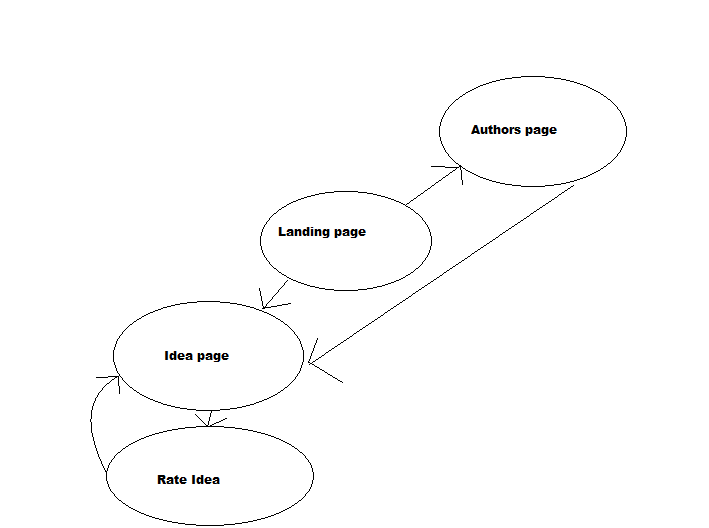
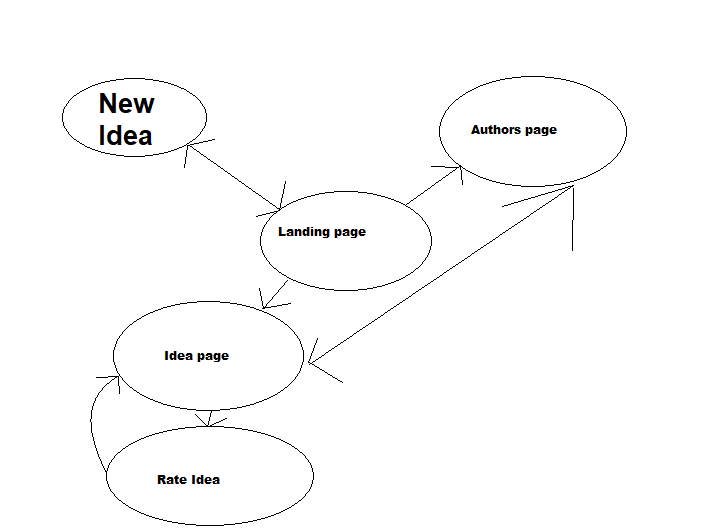
user authentication added and templates updated

Changed region(s): [[0.1241, 0.2424, 0.2172, 0.303], [0.1241, 0.1515, 0.2172, 0.2121], [0.2482, 0.2727, 0.2793, 0.303]]

diff --git a/RateMyIdea/templates/register/signup.html b/RateMyIdea/templates/register/signup.html
@@ -1,0 +1,57 @@
+{% extends 'base.html' %}
+
+{% load widget_tweaks %}
+
+{% block content %}
+
+<div class="container">
+    <div class="row d-flex justify-content-center align-items-center" style="height: 100vh">
+        <div class="col-lg-6 col-md-8 col-sm-10 bg-info ">
+            <form method="post" class="form">
+                {% csrf_token %}
+                <h3 class="text-center my-5">Signup</h3>
+                <div class="form-group">
+                    <div class="input-group mb-3">
+                        <div class="input-group-prepend">
+                            <span class="input-group-text"><i class="bi bi-person"></i></span>
+                        </div>
+                        {% render_field form.username placeholder="Username" class+="form-control" %}
+                    </div>
+                </div>
+                <div class="form-group">
+                    <div class="input-group mb-3">
+                        <div class="input-group-prepend">
+                            <span class="input-group-text"><i class="bi bi-envelope"></i></span>
+                        </div>
+                        {% render_field form.email placeholder="Email" class+="form-control" %}
+                    </div>
+                </div>
+                <div class="form-group">
+                    <div class="input-group mb-3">
+                        <div class="input-group-prepend">
+                            <span class="input-group-text"><i class="bi bi-lock"></i></span>
+                        </div>
+                        {% render_field form.password1 placeholder="Password" class+="form-control" %}
+                    </div>
+                </div>
+                <div class="form-group">
+                    <div class="input-group mb-3">
+                        <div class="input-group-prepend">
+                            <span class="input-group-text"><i class="bi bi-lock"></i></span>
+                        </div>
+                        {% render_field form.password2 placeholder="Password Confirmation" class+="form-control" %}
+                    </div>
+                </div>
+                <div class="form-group text-center">
+                    <button type="submit" class="btn btn-primary">Register</button>
+                </div>
+                <div class="form-group">
+                    <p>Already have an account? <a href="{% url 'users:login' %}">login</a></p>
+                </div>
+            </form>
+        </div>
+    </div>
+</div>
+
+
+{% endblock %}

diff --git a/RateMyIdea/templates/register/login.html b/RateMyIdea/templates/register/login.html
@@ -1,0 +1,46 @@
+{% extends 'base.html' %}
+
+{% load widget_tweaks %}
+
+{% block content %}
+
+<div class="container">
+    <div class="row d-flex justify-content-center align-items-center" style="height: 100vh">
+        <div class="col-lg-6 col-md-8 col-sm-10 bg-info ">
+            <form method="post" class="form">
+                {% csrf_token %}
+                <h3 class="text-center my-5">Login</h3>
+                <div class="form-group">
+                    <div class="input-group mb-3">
+                        <div class="input-group-prepend">
+                            <span class="input-group-text"><i class="bi bi-envelope"></i></span>
+                        </div>
+                        {% render_field form.username placeholder="Enter email" class+="form-control" %}
+                    </div>
+                </div>
+                <div class="form-group">
+                    <div class="input-group mb-3">
+                        <div class="input-group-prepend">
+                            <span class="input-group-text"><i class="bi bi-lock"></i></span>
+                        </div>
+                        {% render_field form.password placeholder="Enter password" class+="form-control" %}
+                    </div>
+                </div>
+                <div class="form-group">
+                    <button type="submit" class="btn btn-primary">Login</button>
+                </div>
+                <div class="form-group">
+                    <p class="text-center">Don't have an account? <a href="{% url 'users:signup' %}">Signup here</a>
+                       </p> 
+                    </div>
+                <div class="form-group">
+                    <p class="text-center"><a href="{% url 'users:password_reset' %}">Forgot password?</a>
+                    </p>
+                    </div>
+            </form>
+        </div>
+    </div>
+</div>
+
+
+{% endblock %}

diff --git a/RateMyIdea/templates/base.html b/RateMyIdea/templates/base.html
@@ -4,14 +4,30 @@
 <meta charset="utf-8">
     <meta name="viewport" content="width=device-width, initial-scale=1, shrink-to-fit=no">
     <link rel="stylesheet" href="https://stackpath.bootstrapcdn.com/bootstrap/4.4.1/css/bootstrap.min.css" crossorigin="anonymous">
+    <link href="https://cdn.jsdelivr.net/npm/bootstrap-icons@1.5.0/font/bootstrap-icons.css" rel="stylesheet">
     <link rel="stylesheet" href="styles.css">
     <title>{% block title %}Rate My Idea{% endblock %}</title>
 </head>
 <body>
 
-<div class="p-3 bg-dark text-white">
-    <h3>Rate My Idea</h3>
+<nav class="navbar navbar-expand-lg navbar-light bg-dark">
+    <div class="container-fluid">
+    <h3 class="navbar-brand">Rate My Idea</h3>
+    <ul class="navbar-nav">
+        <li class="nav-item"><a href="{% url 'ideas:home' %}" class="nav-link">Home</a></li>
+        <li class="nav-item"><a href="{% url 'ideas:new_idea' %}" class="nav-link">New Idea</a></li>
+        <li class="nav-item"><a href="#" class="nav-link">About</a></li>
+        <li class="nav-item"><a href="#" class="nav-link">Contact</a></li>
+        {% if request.user.is_authenticated %}
+            <li class="nav-item"><a href="#" class="nav-link">Author</a></li>
+            <li class="nav-item"><a href="{% url 'users:logout' %}" class='btn btn-secondary nav-link'>Logout</a></li>
+        {% else %}
+            <li class="nav-item"><a href="{% url 'users:login' %}" class='btn btn-primary nav-link'>Login</a></li>
+            <li class="nav-item"><a href="{% url 'users:signup' %}" class='btn btn-secondary nav-link'>Signup</a></li>
+        {% endif %}
+    </ul>
 </div>
+</nav>
 
 
 {% block content %}

diff --git a/RateMyIdea/templates/home.html b/RateMyIdea/templates/home.html
@@ -5,7 +5,7 @@
 
 {% block content %}
 <br>
-<a href="{% url 'new_idea' %}" class="btn btn-dark">New Idea</a>
+<a href="{% url 'ideas:new_idea' %}" class="btn btn-dark">New Idea</a>
 <br>
 
 
@@ -28,7 +28,7 @@
                     <td>{{ idea.idea }}</td>
                     <td>{{ idea.rating }}</td>
                     <td>{{ idea.votes }}</td>
-                    <td><a href="{% url 'author' idea.id %}">{{ idea.author }}</a></td>
+                    <td><a href="{% url 'ideas:author' idea.id %}">{{ idea.author }}</a></td>
                     <td>{{ idea.date_posted }}</td>
                 </tr>
                 {% endfor %}

diff --git a/RateMyIdea/templates/new_idea.html b/RateMyIdea/templates/new_idea.html
@@ -7,7 +7,8 @@
 <form method="post">
 	{% csrf_token %}
 	{{ form.as_p }}
-	<button type="submit">Submit</button>
+	<button type="submit" class="btn btn-primary">Submit</button>
+	<a href="{% url 'ideas:home' %}" class="btn btn-secondary">Cancel</a>
 </form>
 
 {% endblock %}

diff --git a/RateMyIdea/templates/register/password_reset_done.html b/RateMyIdea/templates/register/password_reset_done.html
@@ -1,0 +1,11 @@
+{% extends 'base.html' %}
+
+
+{% block title %}Reset Password{% endblock %}
+
+{% block content %}
+
+<h3>Reset Password</h3>
+<p>We have sent you an email with a link to reset your password. Please follow the instructions.</p>
+
+{% endblock %}

diff --git a/RateMyIdea/templates/register/password_reset_form.html b/RateMyIdea/templates/register/password_reset_form.html
@@ -1,0 +1,9 @@
+{% extends 'base.html' %}
+
+
+{% block title %}Password Reset{% endblock %}
+
+{% block content %}
+
+
+{% endblock %}

diff --git a/RateMyIdea/templates/register/password_reset_complete.html b/RateMyIdea/templates/register/password_reset_complete.html
@@ -1,0 +1,9 @@
+{% extends 'base.html' %}
+
+
+{% block title %}Login{% endblock %}
+
+{% block content %}
+
+
+{% endblock %}

diff --git a/RateMyIdea/templates/register/password_reset_confirm.html b/RateMyIdea/templates/register/password_reset_confirm.html
@@ -1,0 +1,9 @@
+{% extends 'base.html' %}
+
+
+{% block title %}Login{% endblock %}
+
+{% block content %}
+
+
+{% endblock %}

diff --git a/RateMyIdea/RateMyIdea/settings.py b/RateMyIdea/RateMyIdea/settings.py
@@ -22,8 +22,8 @@ BASE_DIR = Path(__file__).resolve().parent.parent
 # See https://docs.djangoproject.com/en/4.1/howto/deployment/checklist/
 
 # SECURITY WARNING: keep the secret key used in production secret!
-load_dotenv(find_dotenv)
-SECRET_KEY = os.environ('SECRET_KEY')
+load_dotenv(find_dotenv())
+SECRET_KEY = os.environ['SECRET_KEY']
 
 # SECURITY WARNING: don't run with debug turned on in production!
 DEBUG = True
@@ -42,6 +42,7 @@ INSTALLED_APPS = [
     'django.contrib.staticfiles',
     'ideas',
     'users',
+    'widget_tweaks',
 ]
 
 MIDDLEWARE = [
@@ -59,7 +60,7 @@ ROOT_URLCONF = 'RateMyIdea.urls'
 TEMPLATES = [
     {
         'BACKEND': 'django.template.backends.django.DjangoTemplates',
-        'DIRS': [os.path.join(BASE_DIR, 'templates')],
+        'DIRS': [os.path.join(BASE_DIR, 'templates/register'), os.path.join(BASE_DIR, 'templates')],
         'APP_DIRS': True,
         'OPTIONS': {
             'context_processors': [
@@ -104,6 +105,10 @@ AUTH_PASSWORD_VALIDATORS = [
     },
 ]
 
+# backend authenticate method modified to accept email instead of username
+AUTHENTICATION_BACKENDS = ['users.backends.EmailBackend',
+                           'django.contrib.auth.backends.ModelBackend',] # the addition of this line is important
+
 
 # Internationalization
 # https://docs.djangoproject.com/en/4.1/topics/i18n/
@@ -131,3 +136,10 @@ DEFAULT_AUTO_FIELD = 'django.db.models.BigAutoField'
 
 # user model redfined
 AUTH_USER_MODEL = 'users.User'
+
+# tells django where to redirect user after login and logout
+LOGIN_URL = 'users:login'
+
+LOGIN_REDIRECT_URL = 'ideas:home'
+
+LOGOUT_REDIRECT_URL = 'ideas:home'

diff --git a/RateMyIdea/users/models.py b/RateMyIdea/users/models.py
@@ -9,6 +9,7 @@ class UserManager(BaseUserManager):
     use_in_migration = True
 
     def _create_user(self, email, password, **extra_fields):
+        """create and save a user with the submitted email and password"""
         if not email:
             raise ValueError('Users require an email field')
         email = self.normalize_email(email)
@@ -18,6 +19,7 @@ class UserManager(BaseUserManager):
         return user
     
     def create_superuser(self, email, password=None, **extra_fields):
+        """create and save a superuser with the submitted email and password"""
         extra_fields.setdefault('is_staff', True)
         extra_fields.setdefault('is_superuser', True)
 
@@ -29,11 +31,10 @@ class UserManager(BaseUserManager):
         return self._create_user(email, password, **extra_fields)
 
 
-
 class User(AbstractUser):
+    """Custom User model"""
     # in settings.py add AUTH_USER_MODEL = '<appname>.<custom_user_model_class>'
 
-    # username = None
     email = models.EmailField(_('email_address'), unique=True)
 
     objects = UserManager()
@@ -47,6 +48,7 @@ class User(AbstractUser):
 
 
 class Author(models.Model):
+    """This model represents the users profile"""
     # extending User model using one-to-one link and signals in signals.py
     user = models.OneToOneField(settings.AUTH_USER_MODEL, on_delete=models.CASCADE)
 

diff --git a/RateMyIdea/users/urls.py b/RateMyIdea/users/urls.py
@@ -1,0 +1,21 @@
+from django.urls import path
+from . import views
+from django.contrib.auth import views as auth_views
+
+app_name = 'users'
+
+urlpatterns = [
+    path('signup/', views.signup, name='signup'),
+    path('login/', auth_views.LoginView.as_view(template_name='login.html'), name='login'),
+    path('logout/', auth_views.LogoutView.as_view(), name='logout'),
+    path('password-reset/', auth_views.PasswordResetView.as_view(template_name='password_reset_form.html', 
+                                                                email_template_name='password_resest_email.html', 
+                                                                subject_template_name='password_reset_subject.txt'),
+                                                                name='password_reset'),
+    path('password-reset/done/', auth_views.PasswordResetDoneView.as_view(template_name='password_reset_done'),
+         name='password_reset_done'),
+    path('password-reset-confirm/<uidb64>/<token>/', auth_views.PasswordResetConfirmView.as_view(template_name='password_reset_confirm.html'),
+         name='password_reset_done'),
+    path('password-reset-complete/', auth_views.PasswordResetCompleteView.as_view(template_name='password_reset_complet.html'),
+         name='password_reset_complete'),
+]
